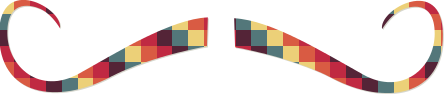
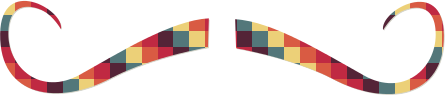
H2 font size adjustment and fixing mustache image cropping

diff --git a/css/style.css b/css/style.css
@@ -559,7 +559,7 @@ h1 {
 
 h2 {
 	color:#403C39;
-	font:bold 100% 'AsapRegular','helvetica neue',helvetica,arial,sans-serif;
+	font:normal 105% 'AsapRegular','helvetica neue',helvetica,arial,sans-serif;
 	text-align:center;
 	text-shadow:1px 1px #D8D8D8;
 }
